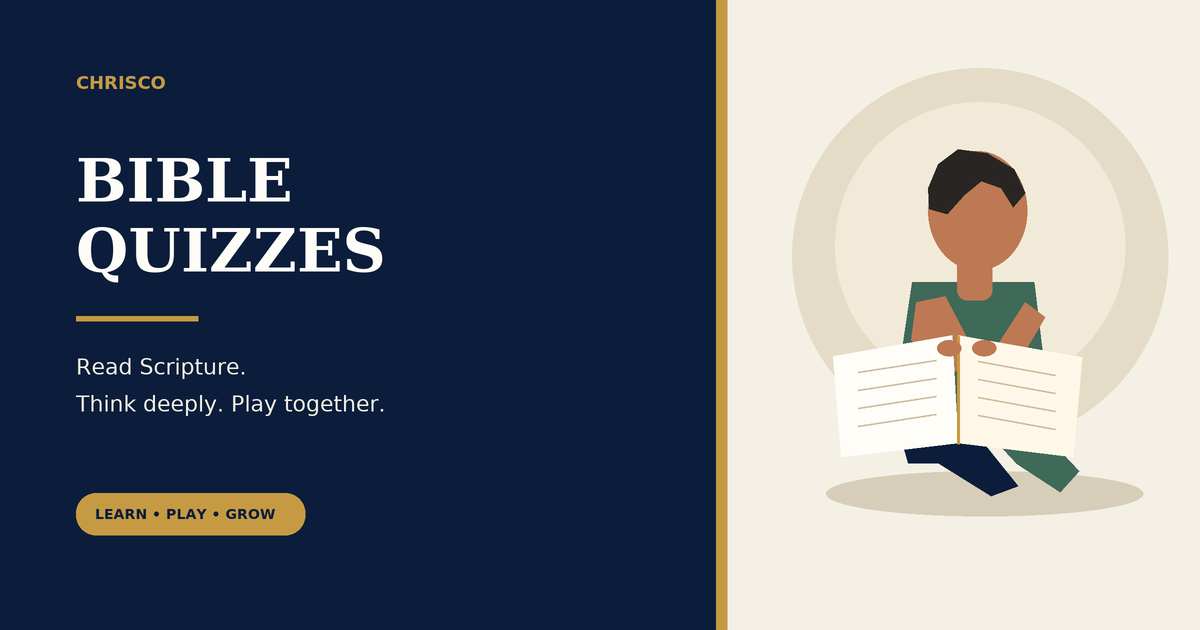
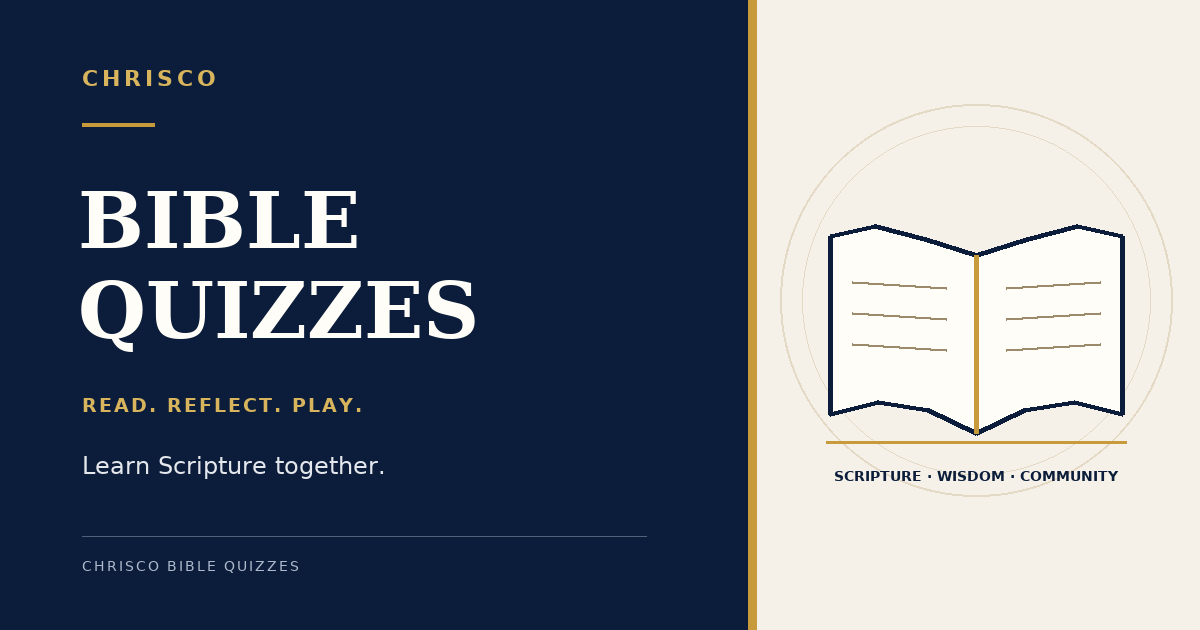
Redesign social thumbnail with a restrained brand palette

diff --git a/routes/share.js b/routes/share.js
@@ -14,6 +14,6 @@ router.get('/', (req, res) => {
   const description = title;
   const image = `${base}/social-preview.png`;
   const joinUrl = `${base}/?pin=${encodeURIComponent(pin)}`;
-  res.type('html').send(`<!doctype html><html lang="en"><head><meta charset="utf-8"><meta name="viewport" content="width=device-width"><title>${title}</title><meta name="description" content="${description}"><meta property="og:type" content="website"><meta property="og:site_name" content="CHRISCO Bible Quizzes"><meta property="og:title" content="${title}"><meta property="og:description" content="${description}"><meta property="og:image" content="${image}"><meta property="og:image:secure_url" content="${image}"><meta property="og:image:type" content="image/png"><meta property="og:image:width" content="1200"><meta property="og:image:height" content="630"><meta property="og:image:alt" content="Premium CHRISCO Bible Quizzes invitation thumbnail"><meta property="og:url" content="${base}/api/share?role=${role}&amp;pin=${encodeURIComponent(pin)}&amp;host=${encodeURIComponent(host)}&amp;name=${encodeURIComponent(nickname)}&amp;mode=${encodeURIComponent(modeKey)}"><meta name="twitter:card" content="summary_large_image"><meta name="twitter:title" content="${title}"><meta name="twitter:description" content="${description}"><meta name="twitter:image" content="${image}"></head><body><main><img src="${image}" alt="CHRISCO Bible Quizzes"><h1>${title}</h1><a href="${joinUrl}">Join this quiz</a></main></body></html>`);
+  res.type('html').send(`<!doctype html><html lang="en"><head><meta charset="utf-8"><meta name="viewport" content="width=device-width"><title>${title}</title><meta name="description" content="${description}"><meta property="og:type" content="website"><meta property="og:site_name" content="CHRISCO Bible Quizzes"><meta property="og:title" content="${title}"><meta property="og:description" content="${description}"><meta property="og:image" content="${image}"><meta property="og:image:secure_url" content="${image}"><meta property="og:image:type" content="image/png"><meta property="og:image:width" content="1200"><meta property="og:image:height" content="630"><meta property="og:image:alt" content="CHRISCO Bible Quizzes with a hand drawn open Bible in navy, cream, and gold"><meta property="og:url" content="${base}/api/share?role=${role}&amp;pin=${encodeURIComponent(pin)}&amp;host=${encodeURIComponent(host)}&amp;name=${encodeURIComponent(nickname)}&amp;mode=${encodeURIComponent(modeKey)}"><meta name="twitter:card" content="summary_large_image"><meta name="twitter:title" content="${title}"><meta name="twitter:description" content="${description}"><meta name="twitter:image" content="${image}"></head><body><main><img src="${image}" alt="CHRISCO Bible Quizzes"><h1>${title}</h1><a href="${joinUrl}">Join this quiz</a></main></body></html>`);
 });
 module.exports = router;

diff --git a/public/host.html b/public/host.html
@@ -13,12 +13,12 @@
   <meta property="og:image:width" content="1200" />
   <meta property="og:image:height" content="630" />
   <meta property="og:image:type" content="image/png" />
-  <meta property="og:image:alt" content="CHRISCO Bible Quizzes: Read Scripture. Think deeply. Play together." />
+  <meta property="og:image:alt" content="CHRISCO Bible Quizzes with a hand drawn open Bible in navy, cream, and gold" />
   <meta name="twitter:card" content="summary_large_image" />
   <meta name="twitter:title" content="CHRISCO Bible Quizzes | Host a live Bible Quiz game" />
   <meta name="twitter:description" content="Host a live multiplayer Bible quiz game. Share the PIN, answer questions, see the scoreboard. Theme: 1 Samuel 30:8 Pursue Overtake Recover All." />
   <meta name="twitter:image" content="https://chrisco-bible-quizzes.vercel.app/social-preview.png" />
-  <meta name="twitter:image:alt" content="CHRISCO Bible Quizzes: Read Scripture. Think deeply. Play together." />
+  <meta name="twitter:image:alt" content="CHRISCO Bible Quizzes with a hand drawn open Bible in navy, cream, and gold" />
   <link rel="stylesheet" href="https://cdnjs.cloudflare.com/ajax/libs/font-awesome/6.4.0/css/all.min.css" crossorigin="anonymous" referrerpolicy="no-referrer" />
   <script src="vendor/supabase.js"></script>
   <link rel="preconnect" href="https://fonts.googleapis.com" />

diff --git a/public/index.html b/public/index.html
@@ -13,12 +13,12 @@
   <meta property="og:image:width" content="1200" />
   <meta property="og:image:height" content="630" />
   <meta property="og:image:type" content="image/png" />
-  <meta property="og:image:alt" content="CHRISCO Bible Quizzes: Read Scripture. Think deeply. Play together." />
+  <meta property="og:image:alt" content="CHRISCO Bible Quizzes with a hand drawn open Bible in navy, cream, and gold" />
   <meta name="twitter:card" content="summary_large_image" />
   <meta name="twitter:title" content="CHRISCO Bible Quizzes | Make Learning Awesome!" />
   <meta name="twitter:description" content="Play Bible quizzes with friends. Host a game, share the PIN, and compete. Theme: 1 Samuel 30:8 Pursue Overtake Recover All." />
   <meta name="twitter:image" content="https://chrisco-bible-quizzes.vercel.app/social-preview.png" />
-  <meta name="twitter:image:alt" content="CHRISCO Bible Quizzes: Read Scripture. Think deeply. Play together." />
+  <meta name="twitter:image:alt" content="CHRISCO Bible Quizzes with a hand drawn open Bible in navy, cream, and gold" />
   <!-- Premium Icons (Font Awesome Free via CDN) -->
   <link rel="stylesheet" href="https://cdnjs.cloudflare.com/ajax/libs/font-awesome/6.4.0/css/all.min.css" crossorigin="anonymous" referrerpolicy="no-referrer" />
   <!-- Kahoot-style font (Montserrat) with fallback -->

diff --git a/api/share.js b/api/share.js
@@ -57,13 +57,13 @@ export default async function handler(req, res) {
   <meta property="og:image:type" content="image/png" />
   <meta property="og:image:width" content="1200" />
   <meta property="og:image:height" content="630" />
-  <meta property="og:image:alt" content="CHRISCO Bible Quizzes: Read Scripture. Think deeply. Play together." />
+  <meta property="og:image:alt" content="CHRISCO Bible Quizzes with a hand drawn open Bible in navy, cream, and gold" />
   <meta property="og:url" content="` + shareUrl + `" />
   <meta name="twitter:card" content="summary_large_image" />
   <meta name="twitter:title" content="` + title + `" />
   <meta name="twitter:description" content="` + description + `" />
   <meta name="twitter:image" content="` + imageUrl + `" />
-  <meta name="twitter:image:alt" content="CHRISCO Bible Quizzes: Read Scripture. Think deeply. Play together." />
+  <meta name="twitter:image:alt" content="CHRISCO Bible Quizzes with a hand drawn open Bible in navy, cream, and gold" />
   <style>
     * { box-sizing: border-box; margin: 0; padding: 0; }
     body {
